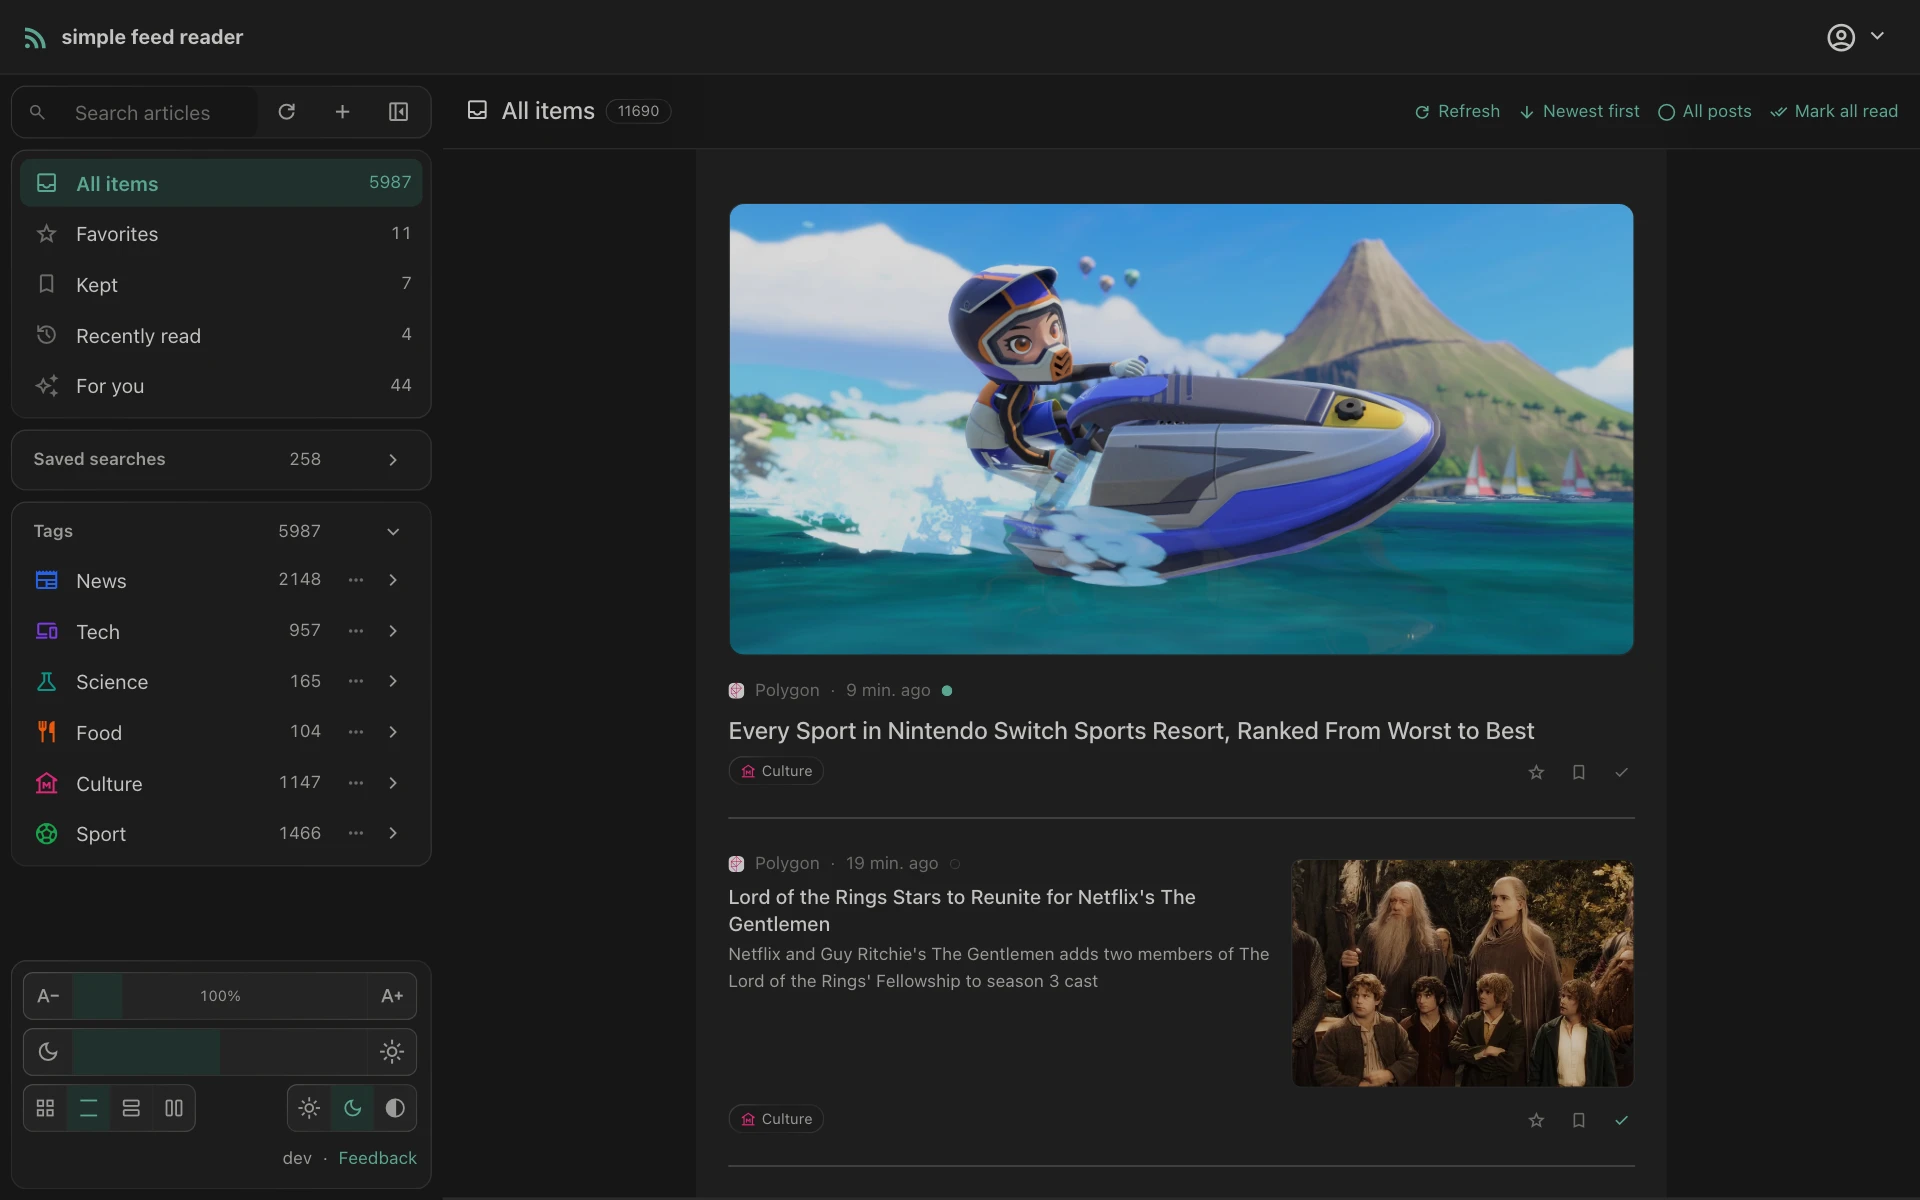
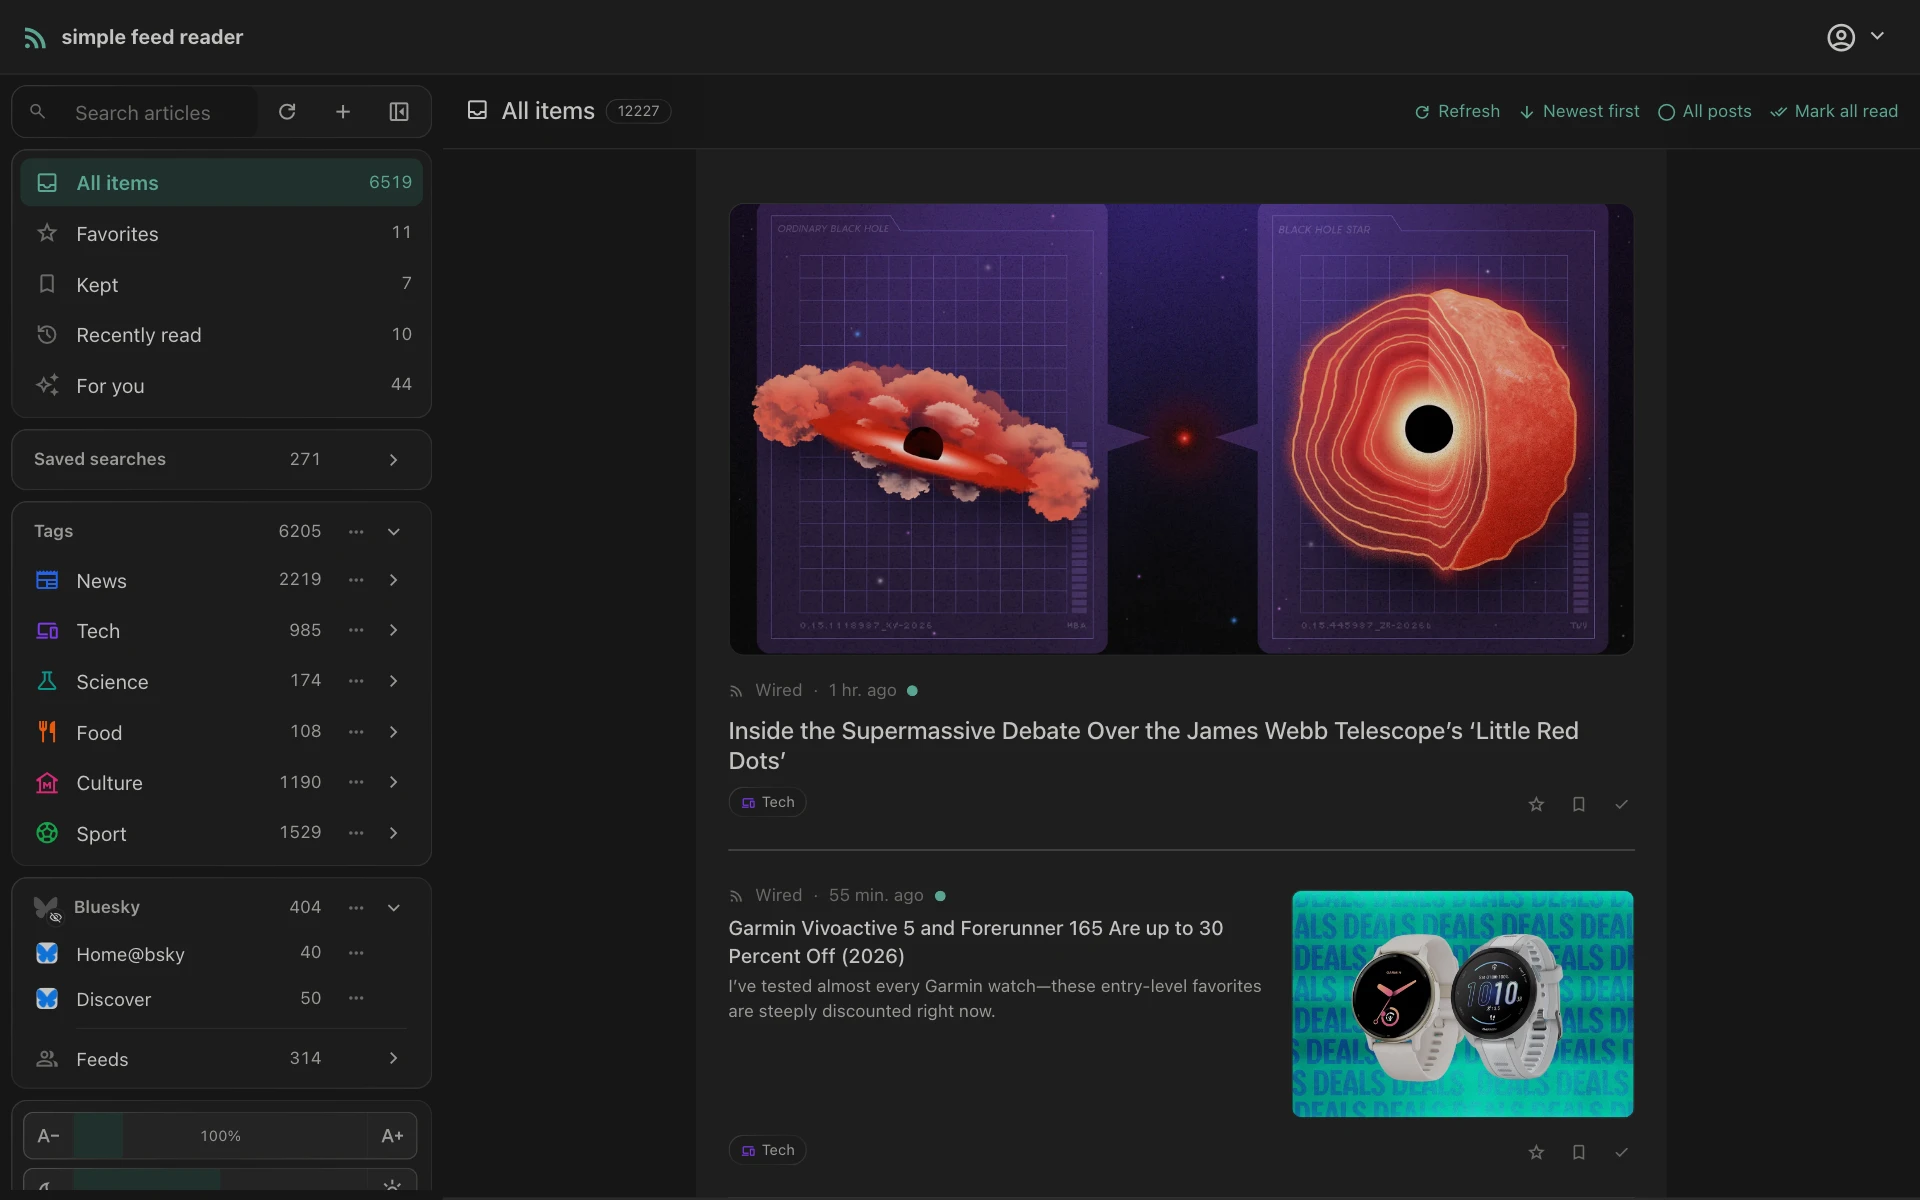
docs: Bluesky in the screenshots; every sidebar shot retaken with a connected account
Five new captures show the social side: the Social Media settings with a
connected Bluesky account, the Bluesky section's followed accounts as a
magazine on desktop and phone, and a post opened in the reader with its
link card and the likes, replies and reposts row. The README gets a Social
row and the gallery a Social section and a Social Media settings entry.

Every shot that shows the sidebar is retaken with the account connected, so
the Bluesky section with its home timeline, a custom feed and the Feeds
group appears consistently. The list shots use the followed-accounts group
rather than the whole network, so the home timeline does not dictate what
the README shows, and the post shots open one followed account's newest
post by its title, since a click on a post's middle lands on its link card.

bluesky-setup.mjs connects the account from the ignored env file, imports a
curated set of follows and feeds, and takes it all away again; the demo is
left as it was found.

diff --git a/frontend/scripts/screenshots/README.md b/frontend/scripts/screenshots/README.md
@@ -7,11 +7,23 @@ on a demo account that follows a handful of mainstream feeds. Run everything fro
 cat > .env.screenshots <<'EOF'
 SHOT_EMAIL=jamie.park@example.com
 SHOT_PASSWORD=…
+BLUESKY_HANDLE=…
+BLUESKY_APP_PASSWORD=…
 EOF
 
 # Sign-in and admin pages: any admin account works (the user list and proxy page are stubbed).
 # Everything else: the demo account.
 node --env-file=.env.screenshots scripts/screenshots/shots.mjs public admin library
+
+# The Social shots, and the Bluesky section every sidebar shows, need a connected account:
+# BLUESKY_HANDLE and BLUESKY_APP_PASSWORD (an app password, never the account password) in the env
+# file. The handle shows in the shots. Connect, import a curated set of follows and feeds, shoot
+# everything with a sidebar, then disconnect; the demo keeps nothing.
+node --env-file=.env.screenshots scripts/screenshots/bluesky-setup.mjs candidates   # what could be imported
+BLUESKY_IMPORT_HANDLES=heise.de,hankgreen.bsky.social BLUESKY_IMPORT_COLLECTIONS=Discover \
+  node --env-file=.env.screenshots scripts/screenshots/bluesky-setup.mjs
+node --env-file=.env.screenshots scripts/screenshots/shots.mjs library social
+node --env-file=.env.screenshots scripts/screenshots/bluesky-setup.mjs teardown
 
 # The Listening shots need podcasts the demo does not follow: borrow some, shoot, give them back.
 node --env-file=.env.screenshots scripts/screenshots/podcast-setup.mjs        # prints PODCAST_TAG=<id>
@@ -19,7 +31,10 @@ PODCAST_TAG=<id> node --env-file=.env.screenshots scripts/screenshots/shots.mjs 
 node --env-file=.env.screenshots scripts/screenshots/podcast-setup.mjs teardown
 ```
 
-`shots.mjs` takes set names (`public`, `admin`, `library`, `listening`, `all`) or individual
+The post shots open the newest post of one followed account, `BLUESKY_POST_ACCOUNT` (a title
+substring, default "Lily Hay Newman"), by its title; check that the post suits a public README.
+
+`shots.mjs` takes set names (`public`, `admin`, `library`, `social`, `listening`, `all`) or individual
 shot names, writes the WebP files straight into `docs/screenshots/`, and keeps the raw PNGs
 under the system temp directory. It needs `cwebp` on the PATH (`brew install webp`).
 

diff --git a/docs/screenshots.md b/docs/screenshots.md
@@ -69,6 +69,25 @@ Play and Add to playlist sit on every audio entry.
   <img src="screenshots/mobile-podcast-playlist-light.webp" alt="The playlist panel on a phone" width="24%">
 </p>
 
+## Social
+
+Connect a Bluesky or Mastodon account in Settings → Social Media. Its home
+timeline, lists and custom feeds arrive as private feeds, followed accounts as
+feeds under the network's own section, and the sidebar counts them like any
+other feed.
+
+![The Bluesky section with the home timeline, a custom feed and followed accounts](screenshots/bluesky-light.webp)
+
+A post shows what it embeds — images, video, a link card or the post it
+quotes — with its likes and replies in the reader.
+
+![A Bluesky post in the reader, dark theme](screenshots/bluesky-post-dark.webp)
+
+<p>
+  <img src="screenshots/mobile-bluesky-light.webp" alt="The Bluesky section on a phone" width="24%">
+  <img src="screenshots/mobile-bluesky-post-dark.webp" alt="A Bluesky post in the reader on a phone, dark theme" width="24%">
+</p>
+
 ## "For you"
 
 An optional personal feed. A model of your choice ranks your unread entries
@@ -139,6 +158,13 @@ account and passkeys.
 <p>
   <img src="screenshots/mobile-settings-light.webp" alt="Settings on mobile" width="24%">
 </p>
+
+### Social Media
+
+Connected Bluesky and Mastodon accounts, and which of their follows, lists and
+feeds to bring in.
+
+![Social Media settings](screenshots/settings-social-light.webp)
 
 ### Import, export and backup
 

diff --git a/README.md b/README.md
@@ -45,6 +45,15 @@ its share link from Apple Podcasts.
   <img src="docs/screenshots/mobile-podcast-playlist-light.webp" alt="The audio playlist panel on a phone, above the player bar" width="24%">
 </p>
 
+Connect a Bluesky or Mastodon account and its home timeline, lists, custom
+feeds and follows arrive as feeds; a post shows what it embeds, and its likes
+and replies stay in the reader.
+
+<p>
+  <img src="docs/screenshots/bluesky-light.webp" alt="The Bluesky section: home timeline, a custom feed and followed accounts, with posts in the magazine" width="74%">
+  <img src="docs/screenshots/mobile-bluesky-post-dark.webp" alt="A Bluesky post in the reader on a phone, dark theme" width="24%">
+</p>
+
 More in the [screenshot gallery](docs/screenshots.md).
 
 ## Features
